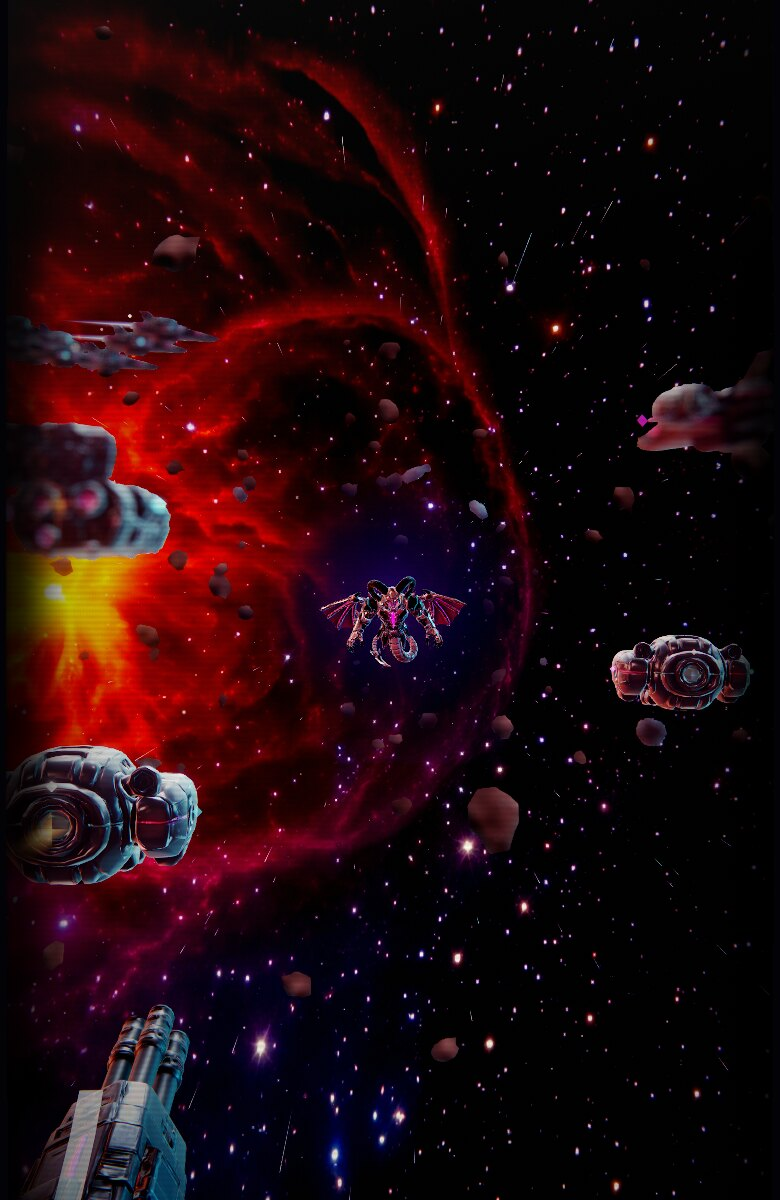
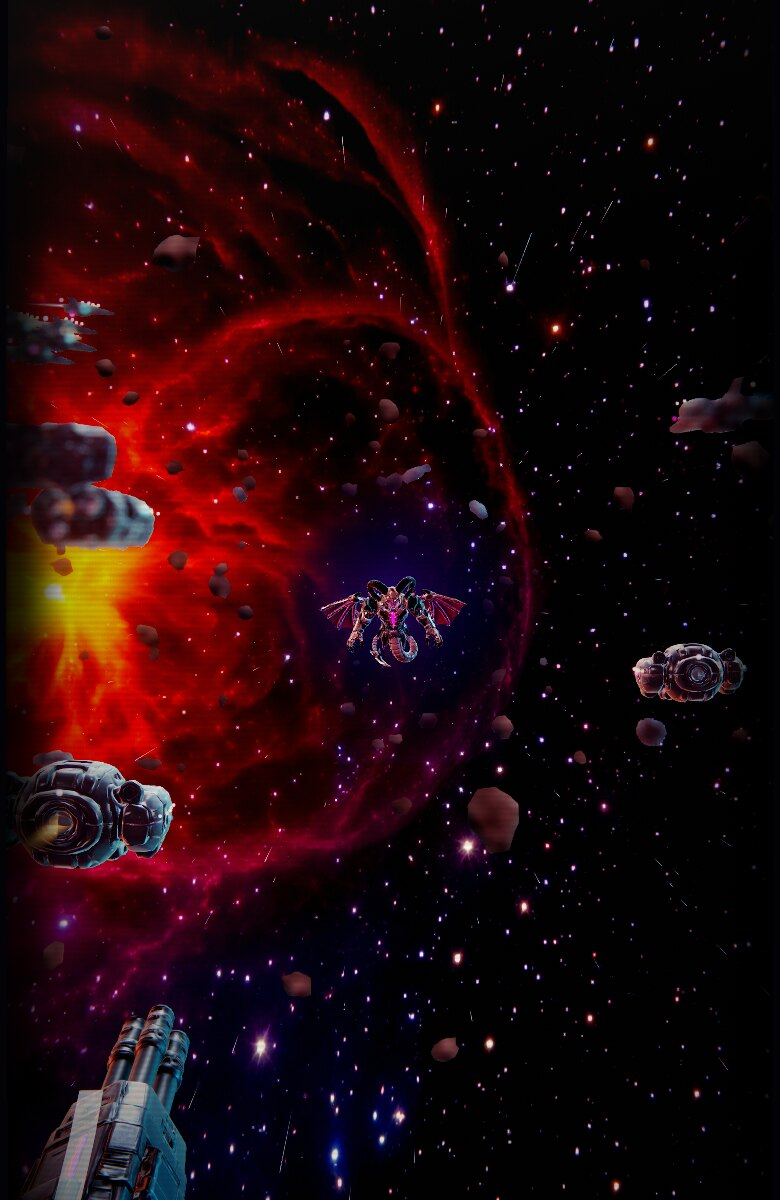
Risk Blaster: the ambient ships read as ships (Phase 6, ruling 4)
At their distance the generated ships were lumps: the cruiser a pink smear,
the freighter and the tug clay pods. Their running lights are crisp points
now (never under a couple of pixels, lifted clear of their own hulls), with
a row of steady lit ports along each flank; the lights blink on the show
clock (their clock was never advanced). The hulls take the region's light
but little of its colour, mirror less of it, and their neon no longer
blooms into smears; they are drawn smaller (the cruiser a small silhouette
far off in the haze). Served only. Regression blaster IDENTICAL both ways.

Claude-Session: https://claude.ai/code/session_01SXN4PWw2h7NprrScNwTTGU

diff --git a/arcade/src/js/20g-blastertraffic.js b/arcade/src/js/20g-blastertraffic.js
@@ -146,32 +146,60 @@ function spaceGlowMaterial(trail) {
 const SPACE_GEN = { freighter: "prop-ship-a", cruiser: "prop-ship-b", fighter: "prop-ship-b", drone: "prop-ship-c", shuttle: "prop-ship-c" };
 const SPACE_GEN_PROPS = ["prop-ship-a", "prop-ship-b", "prop-ship-c", "prop-rock", "prop-rock2"];
 // Running lights for a generated ship (Phase 5 fix: the wings of fighters read as enemy fire): magenta to port, cyan to
-// starboard at its widest, white at its tail, each a small diamond of light; they blink slowly (under once a second).
+// starboard at its widest, white at its tail; they blink slowly (under once a second).
+// (Phase 6: at the distance they are seen at, the ships read as lumps. Each lamp is a point of light now, as big as it
+// is in the world near to, never under a pixel or two across far off, so it stays crisp; and a row of lit ports runs
+// along each flank, steady warm points, so a hull far off reads as a ship: points of light on a dark shape.)
 function spaceRunningLights(geo) {
   geo.computeBoundingBox();
-  const bb = geo.boundingBox, P = geo.attributes.position.array, pos = [], col = [], ph = [];
+  const bb = geo.boundingBox, P = geo.attributes.position.array, pos = [], cor = [], col = [], ph = [], ix = [];
   let wx = 0, wz = 0, wy = 0;
   for (let i = 0; i < P.length; i += 3) if (Math.abs(P[i]) > wx) { wx = Math.abs(P[i]); wy = P[i + 1]; wz = P[i + 2]; }
-  const r = Math.max(bb.max.x - bb.min.x, bb.max.z - bb.min.z) * 0.022;
-  const lamp = (x, y, z, c, p) => {
-    const o = new THREE.OctahedronGeometry(r, 0).toNonIndexed(), a = o.attributes.position.array;
-    for (let i = 0; i < a.length; i += 3) { pos.push(a[i] + x, a[i + 1] + y, a[i + 2] + z); col.push(c[0], c[1], c[2]); ph.push(p); }
-    o.dispose();
+  const L = bb.max.z - bb.min.z, H = bb.max.y - bb.min.y, r = Math.max(bb.max.x - bb.min.x, L) * 0.022;
+  // a lamp: a quad about its centre that the shader turns to the lens (k: its least radius, in pixels; p < 0: steady)
+  const lamp = (x, y, z, c, p, k, rr = r) => {
+    const b = pos.length / 3;
+    [[-1, -1], [1, -1], [1, 1], [-1, 1]].forEach(([u, v]) => { pos.push(x, y, z); cor.push(u, v, k, rr); col.push(c[0], c[1], c[2]); ph.push(p); });
+    ix.push(b, b + 1, b + 2, b, b + 2, b + 3);
   };
-  lamp(-wx - r, wy, wz, [2.6, 0.5, 2.0], 0); lamp(wx + r, wy, wz, [0.4, 2.2, 2.8], 0); lamp(0, bb.max.y * 0.6, bb.max.z + r, [2.4, 2.4, 2.4], 0.5);
+  lamp(-wx - r, wy, wz, [2.6, 0.5, 2.0], 0, 2.0); lamp(wx + r, wy, wz, [0.4, 2.2, 2.8], 0, 2.0); lamp(0, bb.max.y * 0.6, bb.max.z + r, [2.4, 2.4, 2.4], 0.5, 1.8);
+  // the ports: along each flank at its middle height, where the hull is widest at each of five stations
+  const yc = (bb.min.y + bb.max.y) / 2 + H * 0.08;
+  for (let n = 0; n < 5; n++) {
+    const zs = bb.min.z + L * (0.26 + n * 0.12);
+    let w = 0;
+    for (let i = 0; i < P.length; i += 3) if (Math.abs(P[i + 2] - zs) < L * 0.035 && Math.abs(P[i + 1] - yc) < H * 0.14) w = Math.max(w, Math.abs(P[i]));
+    if (w > 0) [-1, 1].forEach((sd) => lamp(sd * (w + r * 0.3), yc, zs, [2.2, 1.9, 1.45], -1, 1.25, r * 0.5));
+  }
   const g = new THREE.BufferGeometry();
   g.setAttribute("position", new THREE.Float32BufferAttribute(pos, 3));
+  g.setAttribute("aCor", new THREE.Float32BufferAttribute(cor, 4));
   g.setAttribute("aCol", new THREE.Float32BufferAttribute(col, 3));
   g.setAttribute("aPh", new THREE.Float32BufferAttribute(ph, 1));
+  g.setIndex(ix);
   return g;
 }
+const SPACE_LAMP_U = { uTime: { value: 0 }, uPx: { value: 0.0024 } }; // (shared: the show's time, and one CSS pixel in the lens's height)
 function spaceRunningLightMat() {
   return new THREE.ShaderMaterial({
-    uniforms: { uTime: { value: 0 } }, transparent: true, depthWrite: false, blending: THREE.AdditiveBlending,
-    vertexShader: "attribute vec3 aCol; attribute float aPh; uniform float uTime; varying vec3 vC; void main(){ vec4 w = modelMatrix * instanceMatrix * vec4(position, 1.0); float seed = fract(sin(dot(instanceMatrix[3].xyz, vec3(12.9898, 78.233, 37.719))) * 43758.5453); vC = aCol * (0.25 + 0.75 * step(0.55, fract(uTime * 0.8 + seed + aPh))); gl_Position = projectionMatrix * viewMatrix * w; }",
-    fragmentShader: "varying vec3 vC; void main(){ gl_FragColor = vec4(vC, 1.0); }",
+    uniforms: SPACE_LAMP_U, transparent: true, depthWrite: false, blending: THREE.AdditiveBlending,
+    vertexShader: `attribute vec4 aCor; attribute vec3 aCol; attribute float aPh; uniform float uTime; uniform float uPx; varying vec3 vC; varying vec2 vUv;
+      void main(){
+        vec4 w = modelMatrix * instanceMatrix * vec4(position, 1.0);
+        vec4 mv = viewMatrix * w, c0 = projectionMatrix * mv;
+        float seed = fract(sin(dot(instanceMatrix[3].xyz, vec3(12.9898, 78.233, 37.719))) * 43758.5453);
+        vC = aCol * (aPh < 0.0 ? 1.0 : 0.25 + 0.75 * step(0.55, fract(uTime * 0.8 + seed + aPh)));
+        float ry = max(aCor.w * length(instanceMatrix[0].xyz) * projectionMatrix[1][1], aCor.z * uPx * c0.w);
+        mv.xyz -= normalize(mv.xyz) * (2.0 * ry / projectionMatrix[1][1]); // (toward the lens by its own size: its hull never swallows it)
+        vec4 c = projectionMatrix * mv;
+        c.xy += aCor.xy * vec2(ry * projectionMatrix[0][0] / projectionMatrix[1][1], ry) * (c.w / c0.w);
+        vUv = aCor.xy;
+        gl_Position = c;
+      }`,
+    fragmentShader: "varying vec3 vC; varying vec2 vUv; void main(){ float d = length(vUv); if (d > 1.0) discard; gl_FragColor = vec4(vC * (d < 0.45 ? 1.0 : pow(1.0 - (d - 0.45) / 0.55, 2.0)), 1.0); }",
   });
 }
+
 
 const SPACE_TYPES = { // how many of each at most, where its engines are (behind its middle), its trail's colour and width, how big it is drawn
   freighter: [6, 14.6, [2.4, 1.0, 0.35], 2.6, 1.4], tanker: [5, 16.8, [0.45, 1.2, 2.4], 3.4, 1.3], cruiser: [2, 62, [0.5, 1.3, 2.6], 15, 1], fighter: [22, 2.1, [1.25, 1.65, 2.2], 0.4, 1.8], // (Phase 5 fix: a short cyan-white engine glow, not the long magenta of the demon's fire)
@@ -199,12 +227,16 @@ class SpaceTraffic {
         Object.defineProperty(lamps, "count", { get: () => mesh.count, set: () => {} });
         Object.defineProperty(lamps, "visible", { get: () => mesh.visible, set: () => {} });
         lamps.frustumCulled = false;
+        lamps.renderOrder = 3; // (over the hull it sits on, and over the trail behind it)
         g.scene.add(lamps);
       } else mesh = spaceInstanced(geos[name], space.hull, cap);
       const zero = new THREE.Matrix4().makeScale(0, 0, 0);
       for (let i = 0; i < cap; i++) mesh.setMatrixAt(i, zero);
       g.scene.add(mesh);
-      this.types[name] = { mesh, cap, rear, col, tw, size, gs, free: Array.from({ length: cap }, (_, i) => cap - 1 - i), base: total };
+      // (Phase 6: a generated hauler, tug or cruiser is drawn smaller than its built-in design: at their distance the
+      // big ones filled the picture's edges as lumps. The wings of fighters keep their size.)
+      // (the cruiser, far off in the haze, most of all: a long dark blade with its lamps, not a hazy blot)
+      this.types[name] = { mesh, cap, rear, col, tw, size: kit && name !== "fighter" ? size * (name === "cruiser" ? 0.55 : 0.78) : size, gs, free: Array.from({ length: cap }, (_, i) => cap - 1 - i), base: total };
       total += cap;
     }
     // one streak of engine light per ship
@@ -262,6 +294,7 @@ class SpaceTraffic {
   update(dt, sp, w) {
     const g = this.g, tr = this.space.cur.traffic, m = this._m, q = this._q, p = this._p;
     if (w < 0.02) this.sp0 = sp;
+    SPACE_LAMP_U.uTime.value = VFX.t; SPACE_LAMP_U.uPx.value = 2 / Math.max(1, GFX.h); // (the lens spans the screen's height: the band is a window into it)
     // keep the region's traffic up
     if ((this.cool -= dt) <= 0 && w < 0.05) {
       this.cool = rand(0.5, 1.3);

diff --git a/arcade/src/js/20f-blasterspace.js b/arcade/src/js/20f-blasterspace.js
@@ -842,7 +842,7 @@ class BlasterSpace {
     const g = this.g, model = g.gen && g.gen.props && g.gen.props[name];
     let kit = null;
     if (model && g.pano) {
-      tuneModel(model, rock ? { glow: 3.6, metal: 0.5, rough: 1.0, normal: 1.0 } : { glow: 3.0, metal: 1.0, rough: 1.0, normal: 0.85 }); // (the rocks' crystals and veins, the ships' neon: they glow)
+      tuneModel(model, rock ? { glow: 3.6, metal: 0.5, rough: 1.0, normal: 1.0 } : { glow: 1.3, metal: 1.0, rough: 1.0, normal: 0.85 }); // (the rocks' crystals and veins, the ships' neon: they glow. Phase 6: a ship's neon at 1.3, not 3: at 3 it bloomed into a smear; its lamps and ports carry it now)
       const made = modelGeometry(model, new THREE.Matrix4().makeRotationY(Math.PI));
       if (made) {
         const bb = made.box, size = bb.getSize(new THREE.Vector3()), s = rock ? 2 / Math.max(size.x, size.y, size.z) : 1 / Math.max(1e-3, size.z);
@@ -857,8 +857,12 @@ class BlasterSpace {
         // stone of its own, aTone, over the region's colour.)
         const UR = rock ? (this.genUR = this.genUR || Object.assign(blasterSkinUniforms(), { uSkAA: { value: 1.2 }, uSkSpec: { value: 0.4 } })) : U;
         const mat = blasterSkin(made.mat, UR, { key: rock ? "space-rock" : "space-ship", pars: rock ? "varying vec3 vTone;" : "", albedo: rock ? "diffuseColor.rgb *= 0.85 * vTone;" : "diffuseColor.rgb *= 0.8;" });
+        if (!rock) { // (Phase 6: a ship's hull takes the region's light but little of its colour: in a red region it read as a pink lump. Its lamps and ports are its colour)
+          const skin = mat.onBeforeCompile;
+          mat.onBeforeCompile = (sh) => { skin(sh); sh.fragmentShader = sh.fragmentShader.replace("#include <lights_fragment_end>", "#include <lights_fragment_end>\n{ const vec3 Y = vec3(0.3, 0.59, 0.11); reflectedLight.directDiffuse = mix(reflectedLight.directDiffuse, vec3(dot(reflectedLight.directDiffuse, Y)), 0.65); reflectedLight.directSpecular = mix(reflectedLight.directSpecular, vec3(dot(reflectedLight.directSpecular, Y)), 0.65); reflectedLight.indirectSpecular = mix(reflectedLight.indirectSpecular, vec3(dot(reflectedLight.indirectSpecular, Y)), 0.65); reflectedLight.indirectDiffuse = mix(reflectedLight.indirectDiffuse, vec3(dot(reflectedLight.indirectDiffuse, Y)), 0.65); }"); };
+        }
         if (rock) { const skin = mat.onBeforeCompile; mat.onBeforeCompile = (sh) => { skin(sh); sh.vertexShader = sh.vertexShader.replace("#include <common>", "#include <common>\nattribute vec3 aTone; varying vec3 vTone;").replace("#include <begin_vertex>", "#include <begin_vertex>\nvTone = aTone;"); }; }
-        g.pano.mirror(mat, rock ? 0.55 : 0.8);
+        g.pano.mirror(mat, rock ? 0.55 : 0.35); // (Phase 6: a ship mirrors less of the region: its hull took the nebula's colour and read as a pink or clay lump)
         this.genMats.push(mat);
         model.scene.traverse((o) => { if (o.isMesh && o.geometry !== made.geo) o.geometry.dispose(); }); // (its packed form is not drawn)
         kit = { geo: made.geo, mat };

diff --git a/arcade/docs/combat-pass/final/STATUS.md b/arcade/docs/combat-pass/final/STATUS.md
@@ -7,7 +7,7 @@ Brief: the lead's rulings on the final review (r1). One commit per fix; regressi
 | 1 | Boss Rush: damage popups in their own lane, caption held where they would meet; "LIGHTNING!" not clipped | done |
 | 2 | Risk Blaster low health: beating red frame round the band, smoke and flame on the visible hull; Nest Egg Run's last-life frame stronger | done (racer capture with the racer batch) |
 | 3 | Final Exam examiner: a hard-edged chest core over the smear, cool key and magenta rim (hitStop calls untouched) | done |
-| 4 | Risk Blaster's ambient ships read as ships (lights as points, less tint and bloom, further into the haze) | to do |
+| 4 | Risk Blaster's ambient ships read as ships (lights as points, less tint and bloom, further into the haze) | done |
 | 5 | RANK UP! on an opaque bordered plate, a dark scrim over the tiles | done |
 | 6 | Exam passed: question UI and NEXT cleared before the banner and SKIP; toast held until the cinematic ends | done |
 | - | Cheap ones: crash bloom cap, wash-outs capped, bonus line inside the screen, cracks off the text, lane D props, Memory Bank blob | to do |
@@ -65,3 +65,12 @@ Brief: the lead's rulings on the final review (r1). One commit per fix; regressi
   makes only 08, and from the results on the page's animations are stepped with the frames (as boss-fight.js does):
   unstepped, the plate was caught half faded in, which is what the review saw. Re-captured menus 08-results-reward.
   Full regression from disk IDENTICAL.
+- **Ruling 4 (ambient ships).** Served only (the generated ships). `20g-blastertraffic.js`: each running light is a
+  point now, a lens-facing quad as large as it is in the world near to and never under 2 CSS px radius (nav lights)
+  or 1.8 (tail) far off, lifted toward the lens by its own size so its hull never swallows it; a row of steady warm
+  ports (1.25 px) along each flank at five stations, placed on the hull's widest point there; one shared material
+  (`SPACE_LAMP_U`), its time on the show clock (it was never advanced, so nothing blinked). Hulls drawn 0.78 of their
+  size (the cruiser 0.55: a small far silhouette). `20f-blasterspace.js` genKit: a ship's neon at 1.3, not 3 (it
+  bloomed into smears), its mirror of the region 0.35, not 0.8, and its lighting 65% stripped of the region's colour
+  (rocks unchanged). Checked by a probe (13 lamps per freighter, tug and shuttle, 11 on the cruiser; which are
+  hidden by their own hull from the lens). Re-captured cohesion 07, 08. Regression blaster IDENTICAL both ways.
